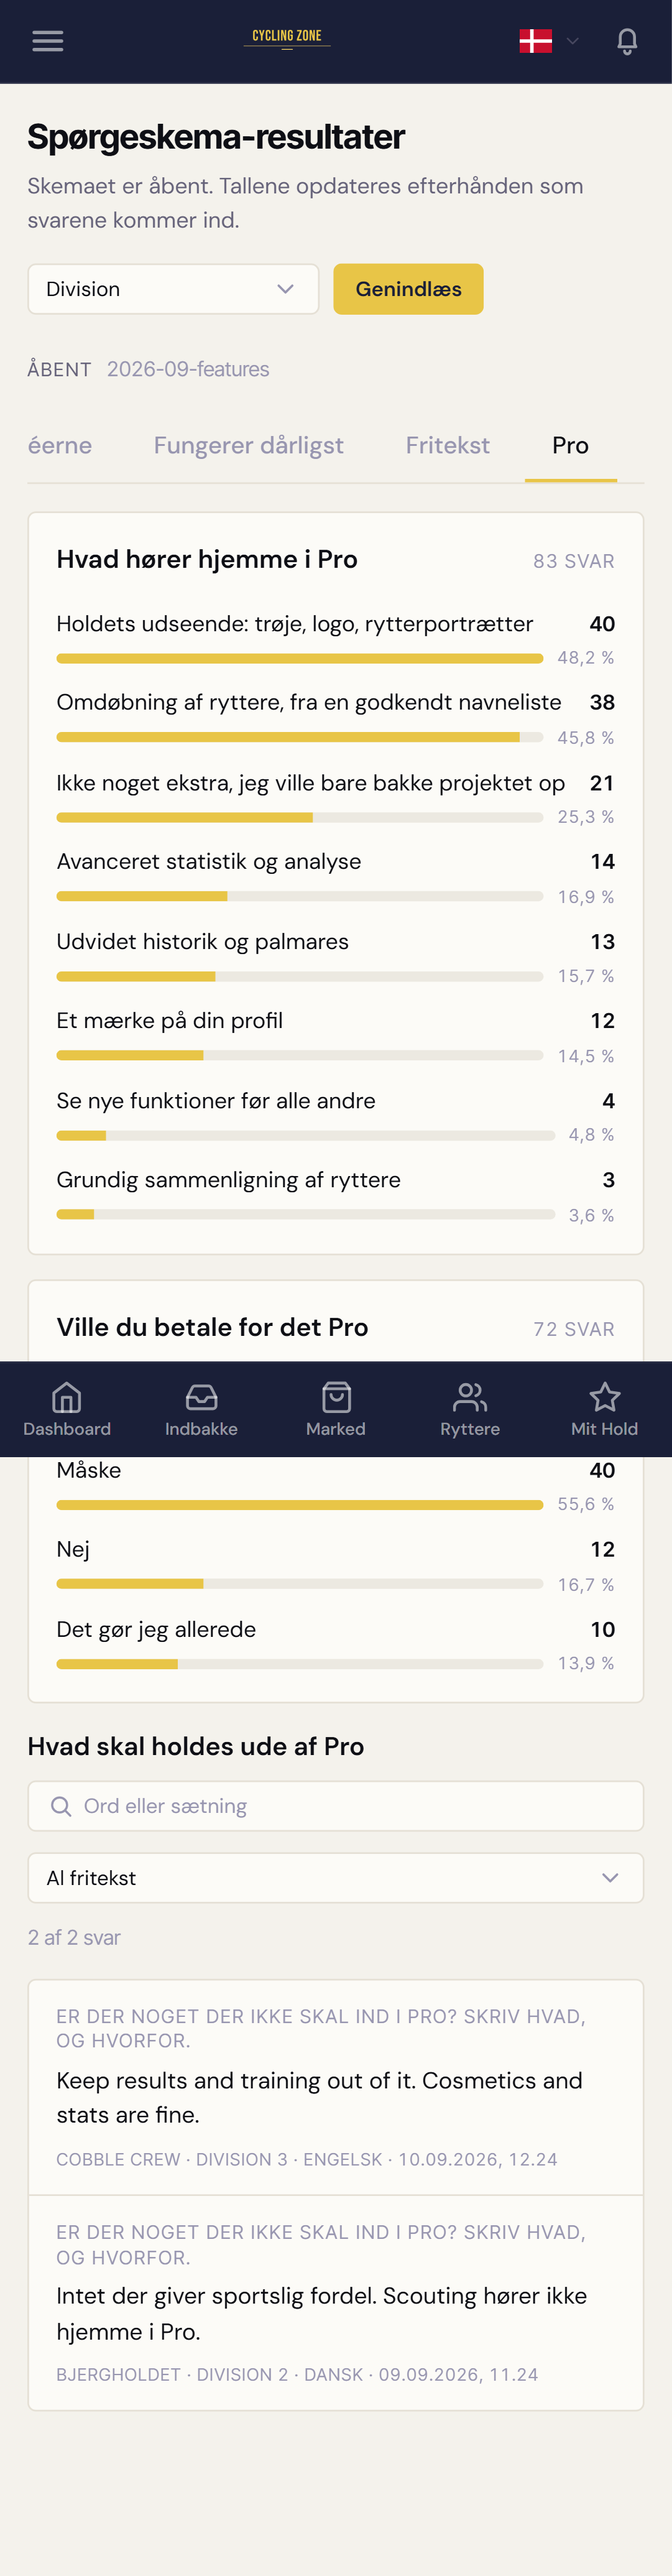
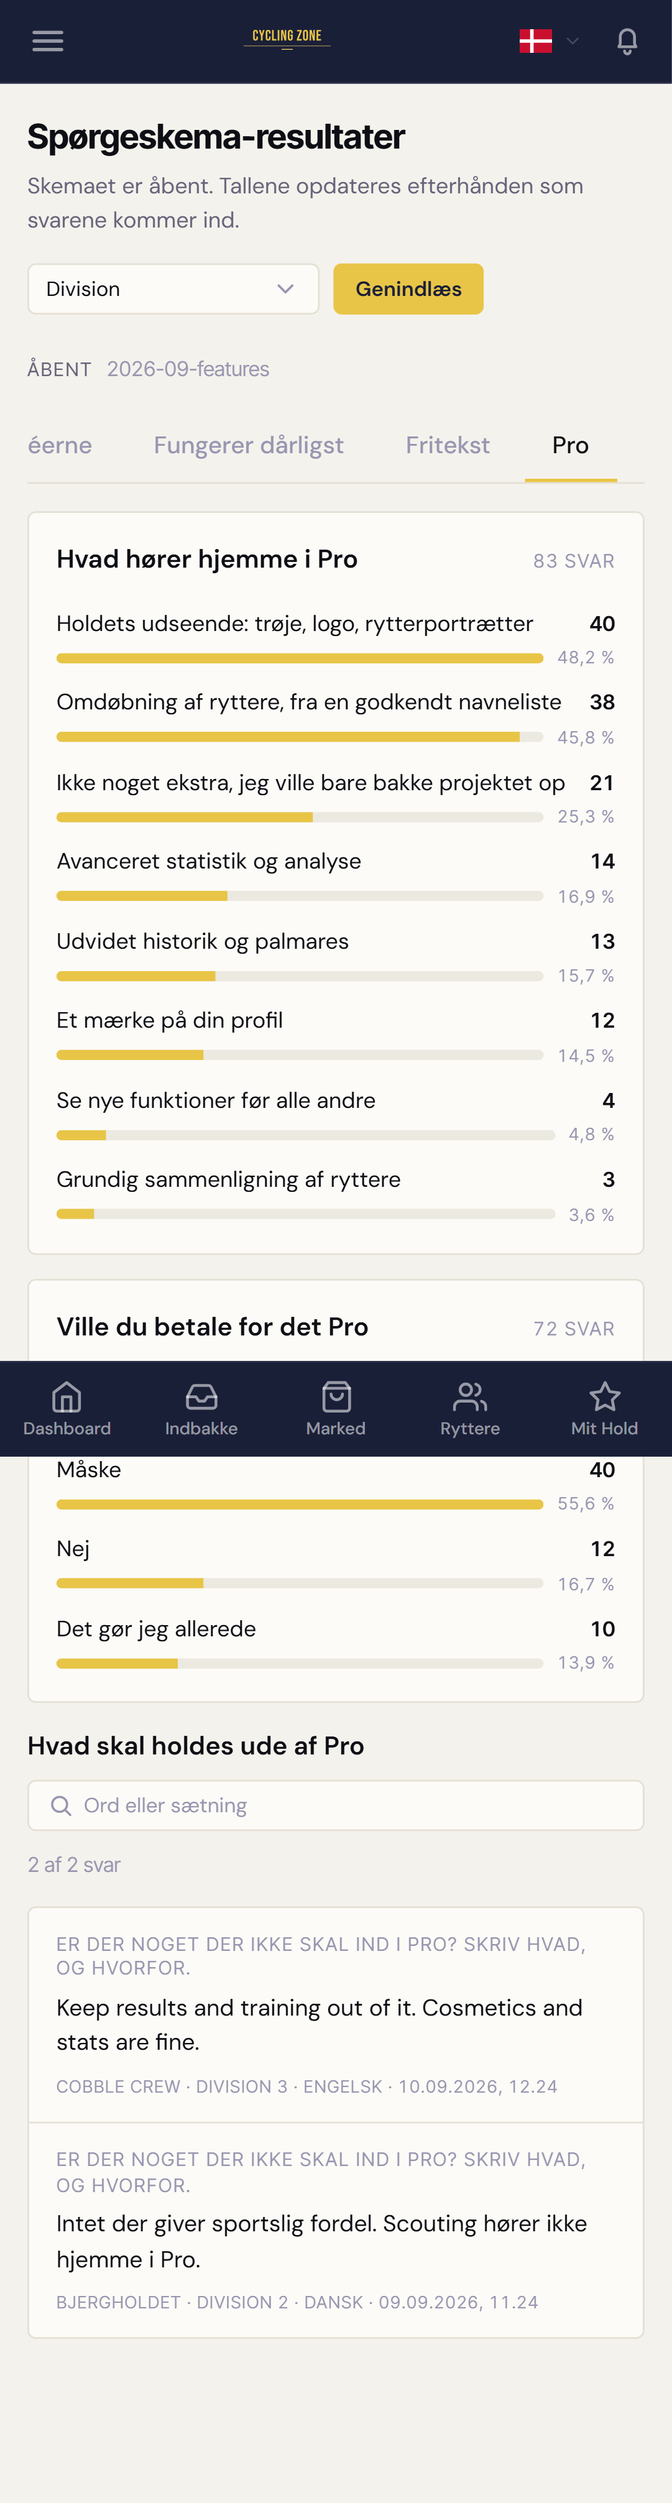
fix(admin): skjul spoergsmaals-vaelgeren naar der kun er eet fritekst-felt (#4943)
Pro-fanen genbruger fritekst-listen til pro_exclusions alene, og der stod en
"Al fritekst"-menu med praecis een mulighed under sig. En kontrol der ikke kan
goere noget hoerer ikke paa fladen.

Refs #4943

diff --git a/frontend/src/components/admin/survey/SurveyTextTab.jsx b/frontend/src/components/admin/survey/SurveyTextTab.jsx
@@ -57,7 +57,9 @@ export default function SurveyTextTab({ data, questionKeys = null }) {
           ariaLabel: t("surveyResults.text.search"),
           testId: "survey-text-search",
         }}
-        filters={[{
+        // Ét spørgsmål giver ingen vælger: en "Al fritekst"-menu med præcis én
+        // mulighed under den er en kontrol der ikke kan gøre noget.
+        filters={questions.length > 1 ? [{
           key: "question",
           value: questionFilter,
           onChange: (event) => setQuestionFilter(event.target.value),
@@ -66,7 +68,7 @@ export default function SurveyTextTab({ data, questionKeys = null }) {
             { value: "all", label: t("surveyResults.text.allQuestions") },
             ...questions.map((question) => ({ value: question.key, label: questionLabel(question, language) })),
           ],
-        }]}
+        }] : []}
         meta={t("surveyResults.text.count", { shown: fmtInt(answers.length), total: fmtInt(total) })}
       />
 
